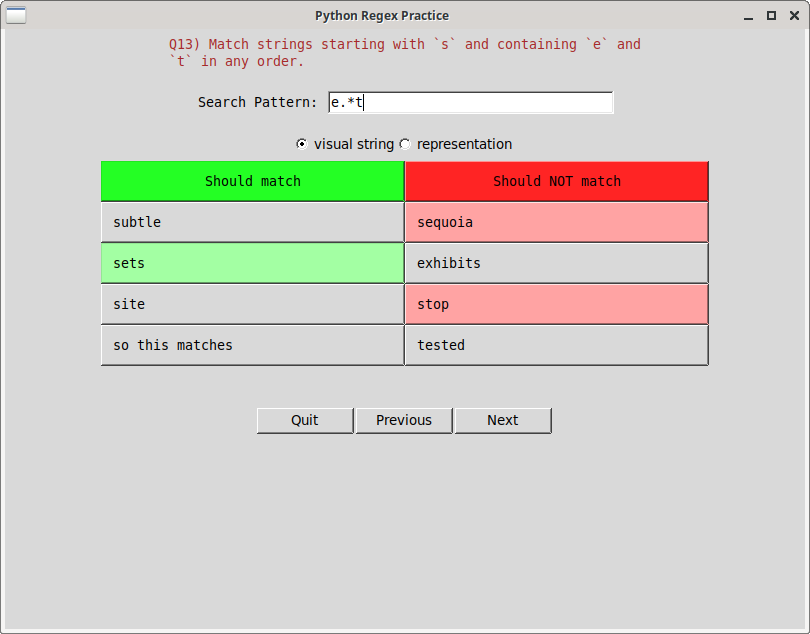
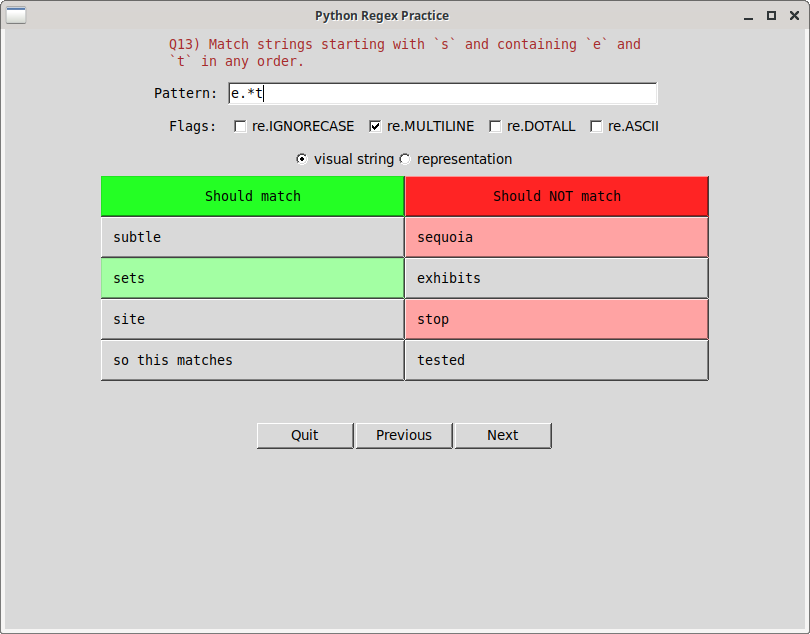
allow user to set flags

Changed region(s): [[0.1235, 0.1199, 0.8951, 0.5994], [0.3086, 0.6293, 0.679, 0.7192], [0.1852, 0.1199, 0.2469, 0.1498]]

diff --git a/interactive_exercises/regex_practice.py b/interactive_exercises/regex_practice.py
@@ -14,6 +14,7 @@ class Root(tk.Tk):
 
         self.create_question_frame()
         self.create_pattern_frame()
+        self.create_flags_frame()
         self.create_format_frame()
         self.create_test_frame()
         self.create_solution_frame()
@@ -45,23 +46,40 @@ class Root(tk.Tk):
         self.pattern_frame = ttk.Frame()
         self.pattern_frame.pack(side=tk.TOP, pady=5)
 
-        label = ttk.Label(self.pattern_frame, text='Search Pattern: ',
+        label = ttk.Label(self.pattern_frame, text='Pattern: ',
                           font='TkFixedFont')
-        label.pack(side=tk.LEFT, pady=10)
+        label.grid(row=0, column=0)
 
-        self.user_input = tk.StringVar()
-        self.user_input.trace_add('write', self.update_display)
+        self.user_pattern = tk.StringVar()
+        self.user_pattern.trace_add('write', self.update_display)
         self.e_pattern = ttk.Entry(self.pattern_frame,
-                                   textvariable=self.user_input,
-                                   width=35, font='TkFixedFont')
-        self.e_pattern.pack(side=tk.RIGHT)
+                                   textvariable=self.user_pattern,
+                                   width=53, font='TkFixedFont')
+        self.e_pattern.grid(row=0, column=1)
+
+    def create_flags_frame(self):
+        self.flags_frame = ttk.Frame()
+        self.flags_frame.pack(side=tk.TOP, pady=5)
+
+        label = ttk.Label(self.flags_frame, text='   Flags: ',
+                          font='TkFixedFont')
+        label.grid(row=0, column=0)
+
+        self.flags = (re.I, re.M, re.S, re.A)
+        self.user_flags = []
+        for idx, flag in enumerate(self.flags, 1):
+            var = tk.IntVar(value=0)
+            self.user_flags.append(var)
+            ttk.Checkbutton(self.flags_frame, text=flag,
+                            variable=var, onvalue=int(flag), offvalue=0,
+                            command=self.update_display
+                           ).grid(row=0, column=idx, padx=5)
 
     def create_format_frame(self):
         self.format_frame = ttk.Frame()
         self.format_frame.pack(side=tk.TOP, pady=5)
 
-        self.test_string_format = tk.IntVar()
-        self.test_string_format.set(0)
+        self.test_string_format = tk.IntVar(value=0)
         ttk.Radiobutton(self.format_frame, text='visual string',
                         variable=self.test_string_format, value=0,
                         command=self.change_format
@@ -119,7 +137,7 @@ class Root(tk.Tk):
         # skip already answered questions
         for idx in range(self.question_count):
             progress_key = str(idx)
-            if self.user_progress.get(progress_key, ('', False))[1]:
+            if self.user_progress.get(progress_key, ('', 0, False))[2]:
                 self.next()
             else:
                 break
@@ -133,8 +151,8 @@ class Root(tk.Tk):
                              padding=10, style='DF.TLabel')
 
         self.l_question['text'] = f"Q{self.question_idx+1}) {question['question']}"
-        self.should_match = ['Should match', *question['Should match']]
-        self.should_not_match = ['Should NOT match', *question['Should NOT match']]
+        self.should_match = ('Should match', *question['Should match'])
+        self.should_not_match = ('Should NOT match', *question['Should NOT match'])
         self.ref_solution = question['Reference solution']
 
         self.l_test_strings = [None] * (len(self.should_match) * 2)
@@ -161,8 +179,19 @@ class Root(tk.Tk):
         
         progress_key = str(self.question_idx)
         if progress_key in self.user_progress:
-            user_answer, already_solved = self.user_progress[progress_key]
-            self.user_input.set(user_answer)
+            user_answer, flag_value, _ = self.user_progress[progress_key]
+            self.set_flags(flag_value)
+            self.user_pattern.set(user_answer)
+        else:
+            flag_value = int(question['flags'])
+            self.set_flags(flag_value)
+
+    def set_flags(self, flag_value):
+        for idx, flag in enumerate(self.flags):
+            if flag_value & flag:
+                self.user_flags[idx].set(int(flag))
+            else:
+                self.user_flags[idx].set(0)
 
     def change_format(self):
         new_format = self.test_string_format.get()
@@ -185,7 +214,7 @@ class Root(tk.Tk):
         else:
             return
 
-        self.user_input.set('')
+        self.user_pattern.set('')
         for label in self.l_test_strings:
             label.destroy()
         self.l_solution['text'] = ''
@@ -193,7 +222,8 @@ class Root(tk.Tk):
 
     def update_display(self, *_):
         try:
-            pat = re.compile(self.e_pattern.get(), flags=re.M)
+            self.flag_value = sum(f.get() for f in self.user_flags)
+            pat = re.compile(self.e_pattern.get(), flags=self.flag_value)
         except re.error:
             for label in self.l_test_strings[2:]:
                 label['state'] = 'disable'
@@ -230,11 +260,13 @@ class Root(tk.Tk):
 
         # don't overwrite a correct solution with newer incorrect solution
         if progress_key in self.user_progress:
-            if self.user_progress[progress_key][1] and not self.correct_solution:
+            if self.user_progress[progress_key][2] and not self.correct_solution:
                 return
 
         if pat := self.e_pattern.get():
-            self.user_progress[progress_key] = (pat, self.correct_solution)
+            self.user_progress[progress_key] = (pat,
+                                                self.flag_value,
+                                                self.correct_solution)
             with open(self.progress_file, 'w') as f:
                 f.write(json.dumps(self.user_progress, indent=4))
 

diff --git a/interactive_exercises/README.md b/interactive_exercises/README.md
@@ -4,7 +4,7 @@ This is a **work-in-progress** GUI app to help you practice Python regular expre
 
 The script has been tested for `python3.9` version on Linux.
 
-Currently, only a few questions for `re.search()` function have been added. `flags=re.M` is enabled to differentiate line and string anchors. Here's a screenshot:
+Currently, only a few questions for `re.search()` function have been added. Here's a screenshot:
 
 <p align="center">
     <img src="./regex_practice_example.png" />
@@ -30,6 +30,7 @@ Your progress will be saved in a new file named `user_progress.json`. If you clo
 ## TODO
 
 * Add many more questions
+* Support `re.sub()` function
 * Refactor
 * Add tests?
 * Etc
